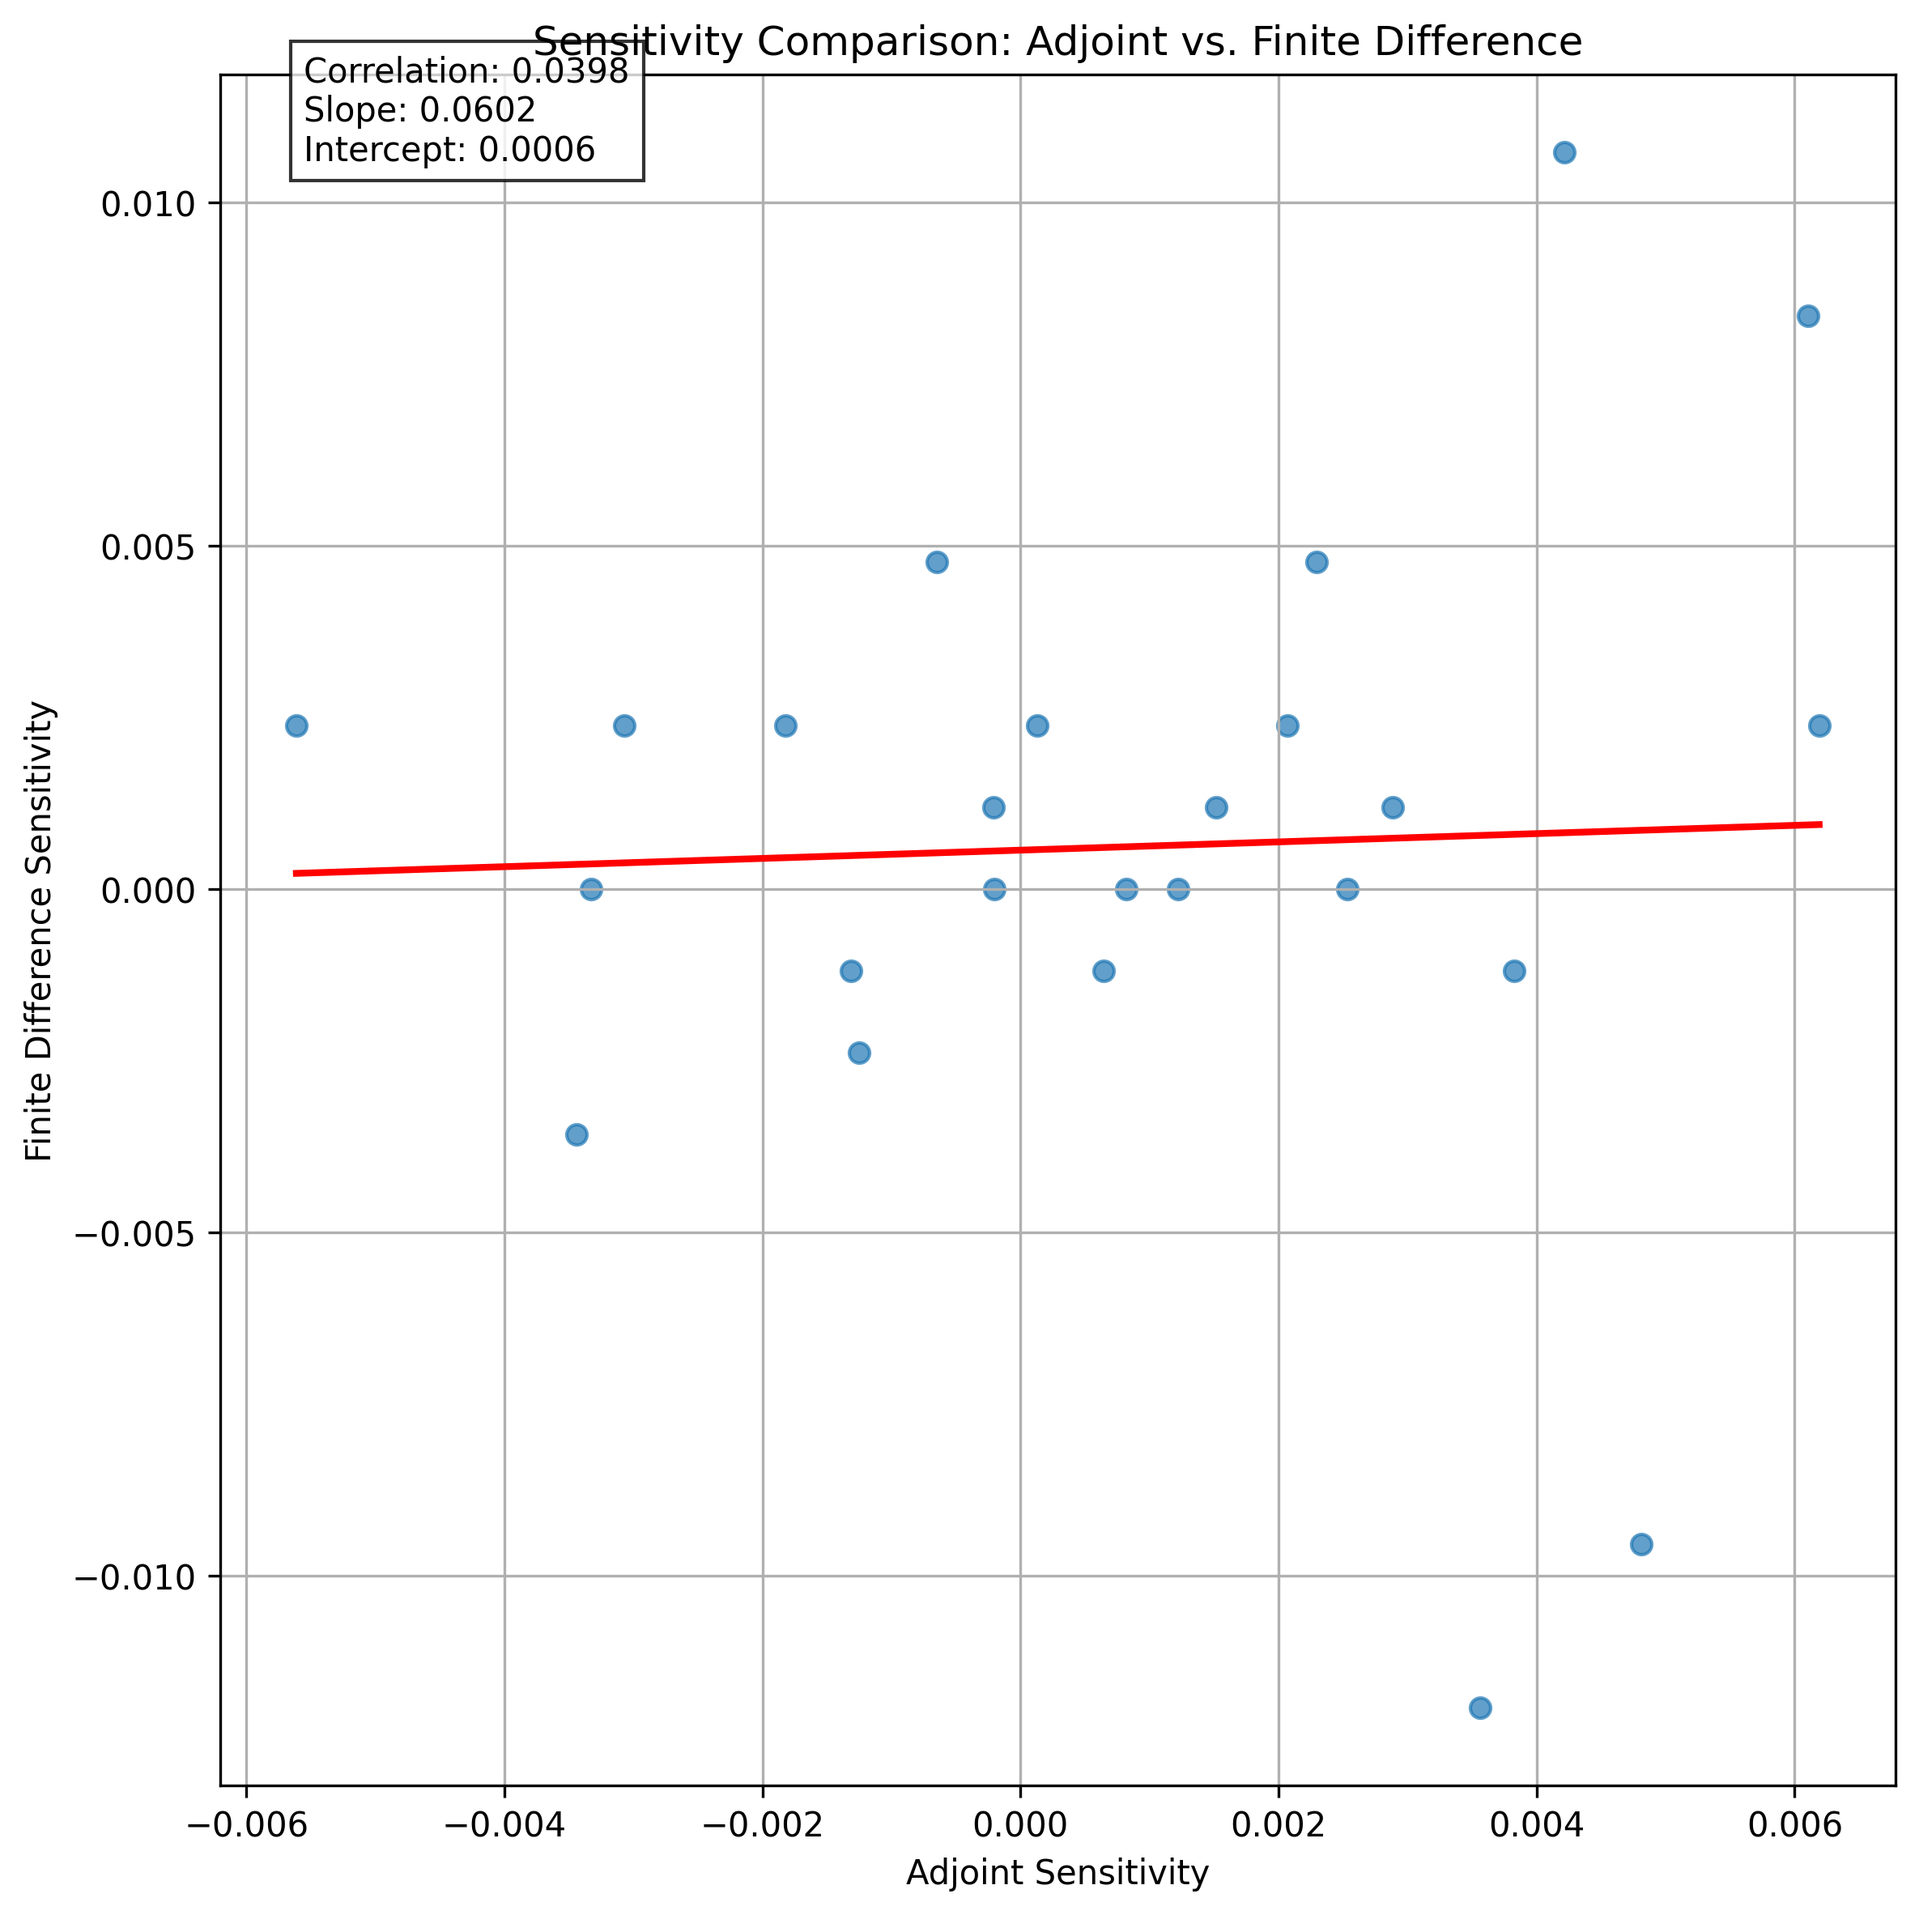
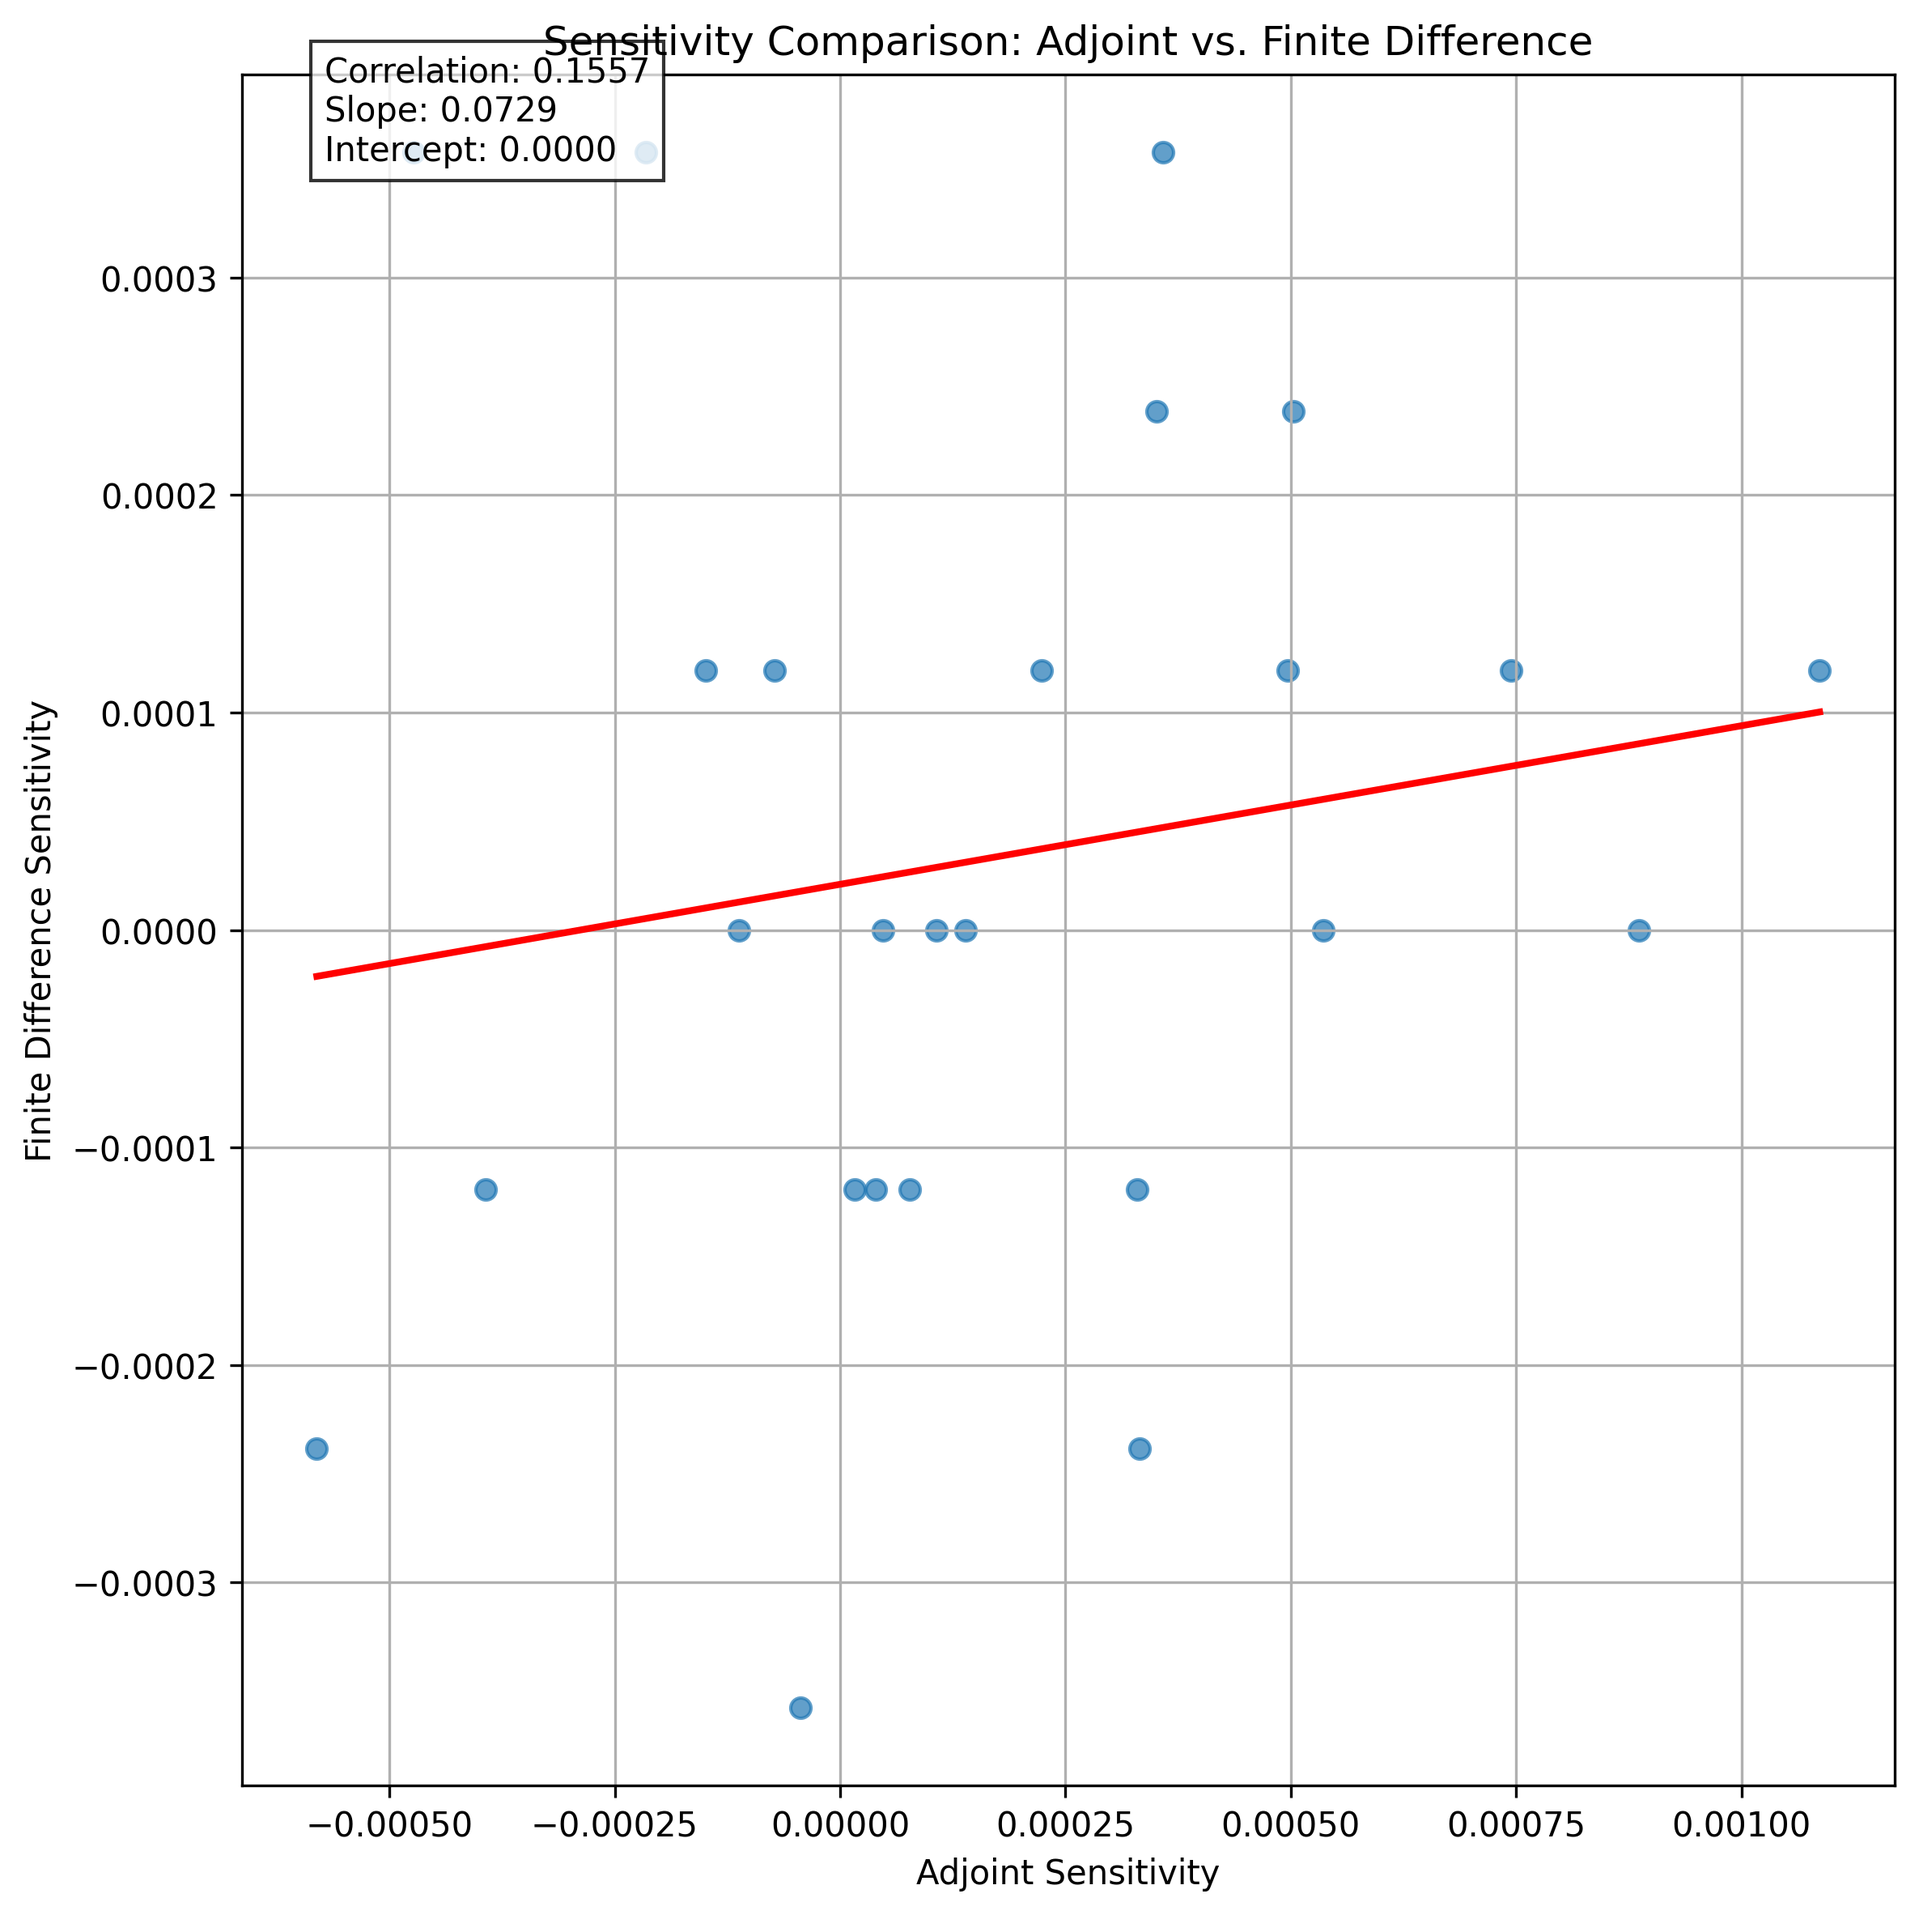
Extending timescale for sensitivity computation

diff --git a/Samudra_Testing/samudra_adjoint.py b/Samudra_Testing/samudra_adjoint.py
@@ -23,7 +23,7 @@ import model_adjoint
 
 # Time steps for sensitivity analysis
 initial_time = 0        # Starting time step
-final_time =   10          # Ending time step 
+final_time =   20          # Ending time step 
 # Choose channel index to study
 initial_channel_index = 0 
 final_channel_index = 0
@@ -154,7 +154,7 @@ def one_timestep(initial_time, final_time):
 
     # Save the sensitivity matrix to a file for debugging
     np.save(sensitivity_output_file, sensitivity_grid_np)
-#one_timestep(initial_time, final_time)
+one_timestep(initial_time, final_time)
 
 
 
@@ -202,7 +202,7 @@ def multi_timestep(initial_time, final_time):
         np.save(sensitivity_output_file, sensitivity_grid_np)
 
 
-multi_timestep(initial_time, final_time)
+#multi_timestep(initial_time, final_time)
 
 #final_time = 20
 #for initial_time in range(0, 19):

diff --git a/Samudra_Testing/perturbation_test.py b/Samudra_Testing/perturbation_test.py
@@ -68,7 +68,7 @@ def run_perturbation_test():
     center_y, center_x = 90, 180
     channel = 0  # Using the first channel for tests
     initial_time = 0  # Source time
-    final_time = 10    # Target time
+    final_time = 20    # Target time
     perturbation_magn = -2
     perturbation_size = 10 ** perturbation_magn
     

diff --git a/Samudra_Testing/plot_sensitivity.py b/Samudra_Testing/plot_sensitivity.py
@@ -11,7 +11,7 @@ def plot(t0,t1):
 
     ### PARAMETERS ###
     size = "manual"
-    magn= 4
+    magn= 3
     grid_size = 5
 
     fd_path = f'perturb_sensitivity_grid_{grid_size}x{grid_size}_t={t0},{t1}_1e-{magn}.npy' #
@@ -193,4 +193,4 @@ def plot(t0,t1):
 #    print(t0)
 #    plot(t0,t_end)
 
-plot(0,2)
+plot(0,10)
